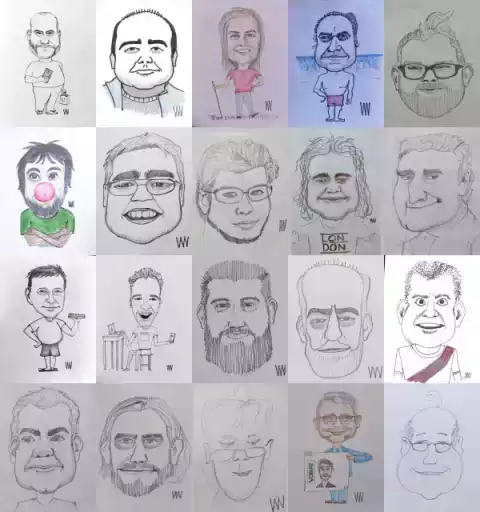
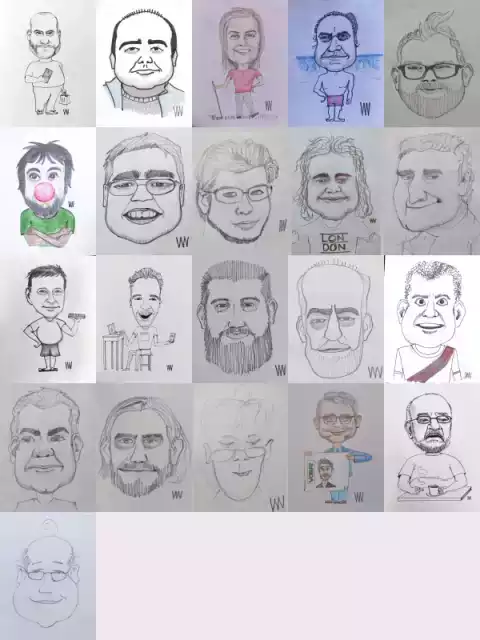
Version 20210322

diff --git a/galeria-conocidos.html b/galeria-conocidos.html
@@ -50,13 +50,13 @@
 				<area shape="rect" coords="000,384,096,512" onclick="muestraImagen('images/personajes/Magiord.webp   ')" alt="Magiord        ">
 				<area shape="rect" coords="096,384,192,512" onclick="muestraImagen('images/personajes/MatiasB.webp   ')" alt="MatiasB        ">
 				<area shape="rect" coords="192,384,288,512" onclick="muestraImagen('images/personajes/Nane.webp      ')" alt="Nane           ">
-				<area shape="rect" coords="288,384,384,512" onclick="muestraImagen('images/personajes/OscarAbe.webp  ')" alt="OscarAbe       ">
-				<area shape="rect" coords="384,384,480,512" onclick="muestraImagen('images/personajes/RubenD.webp    ')" alt="RubenD         ">
-				<area shape="rect" coords="000,512,096,640" onclick="muestraImagen('images/personajes/WillieV.webp   ')" alt="WillieV        ">
-				<area shape="rect" coords="096,512,192,640" onclick="muestraImagen('images/personajes/')" alt="">
+				<area shape="rect" coords="288,384,384,512" onclick="muestraImagen('images/personajes/OscarAbe.webp  ')" alt="Oscar Abella">
+				<area shape="rect" coords="384,384,480,512" onclick="muestraImagen('images/personajes/OscarDeSan.webp')" alt="Oscar de Sanctis">
+				<area shape="rect" coords="000,512,096,640" onclick="muestraImagen('images/personajes/RubenD.webp    ')" alt="RubenD         ">
+				<area shape="rect" coords="096,512,192,640" onclick="muestraImagen('images/personajes/WillieV.webp   ')" alt="WillieV        ">
 				<area shape="rect" coords="192,512,288,640" onclick="muestraImagen('images/personajes/')" alt="">
 				<area shape="rect" coords="288,512,384,640" onclick="muestraImagen('images/personajes/')" alt="">
-				<area shape="rect" coords="384,512,480,640" onclick="muestraImagen('images/personajes/')" alt="">	
+				<area shape="rect" coords="384,512,480,640" onclick="muestraImagen('images/personajes/')" alt="">
 			
 			</map>
 			<img usemap="#primary" src="images/personajes/galeria-conocidos.webp" alt="personajes conocidos">
